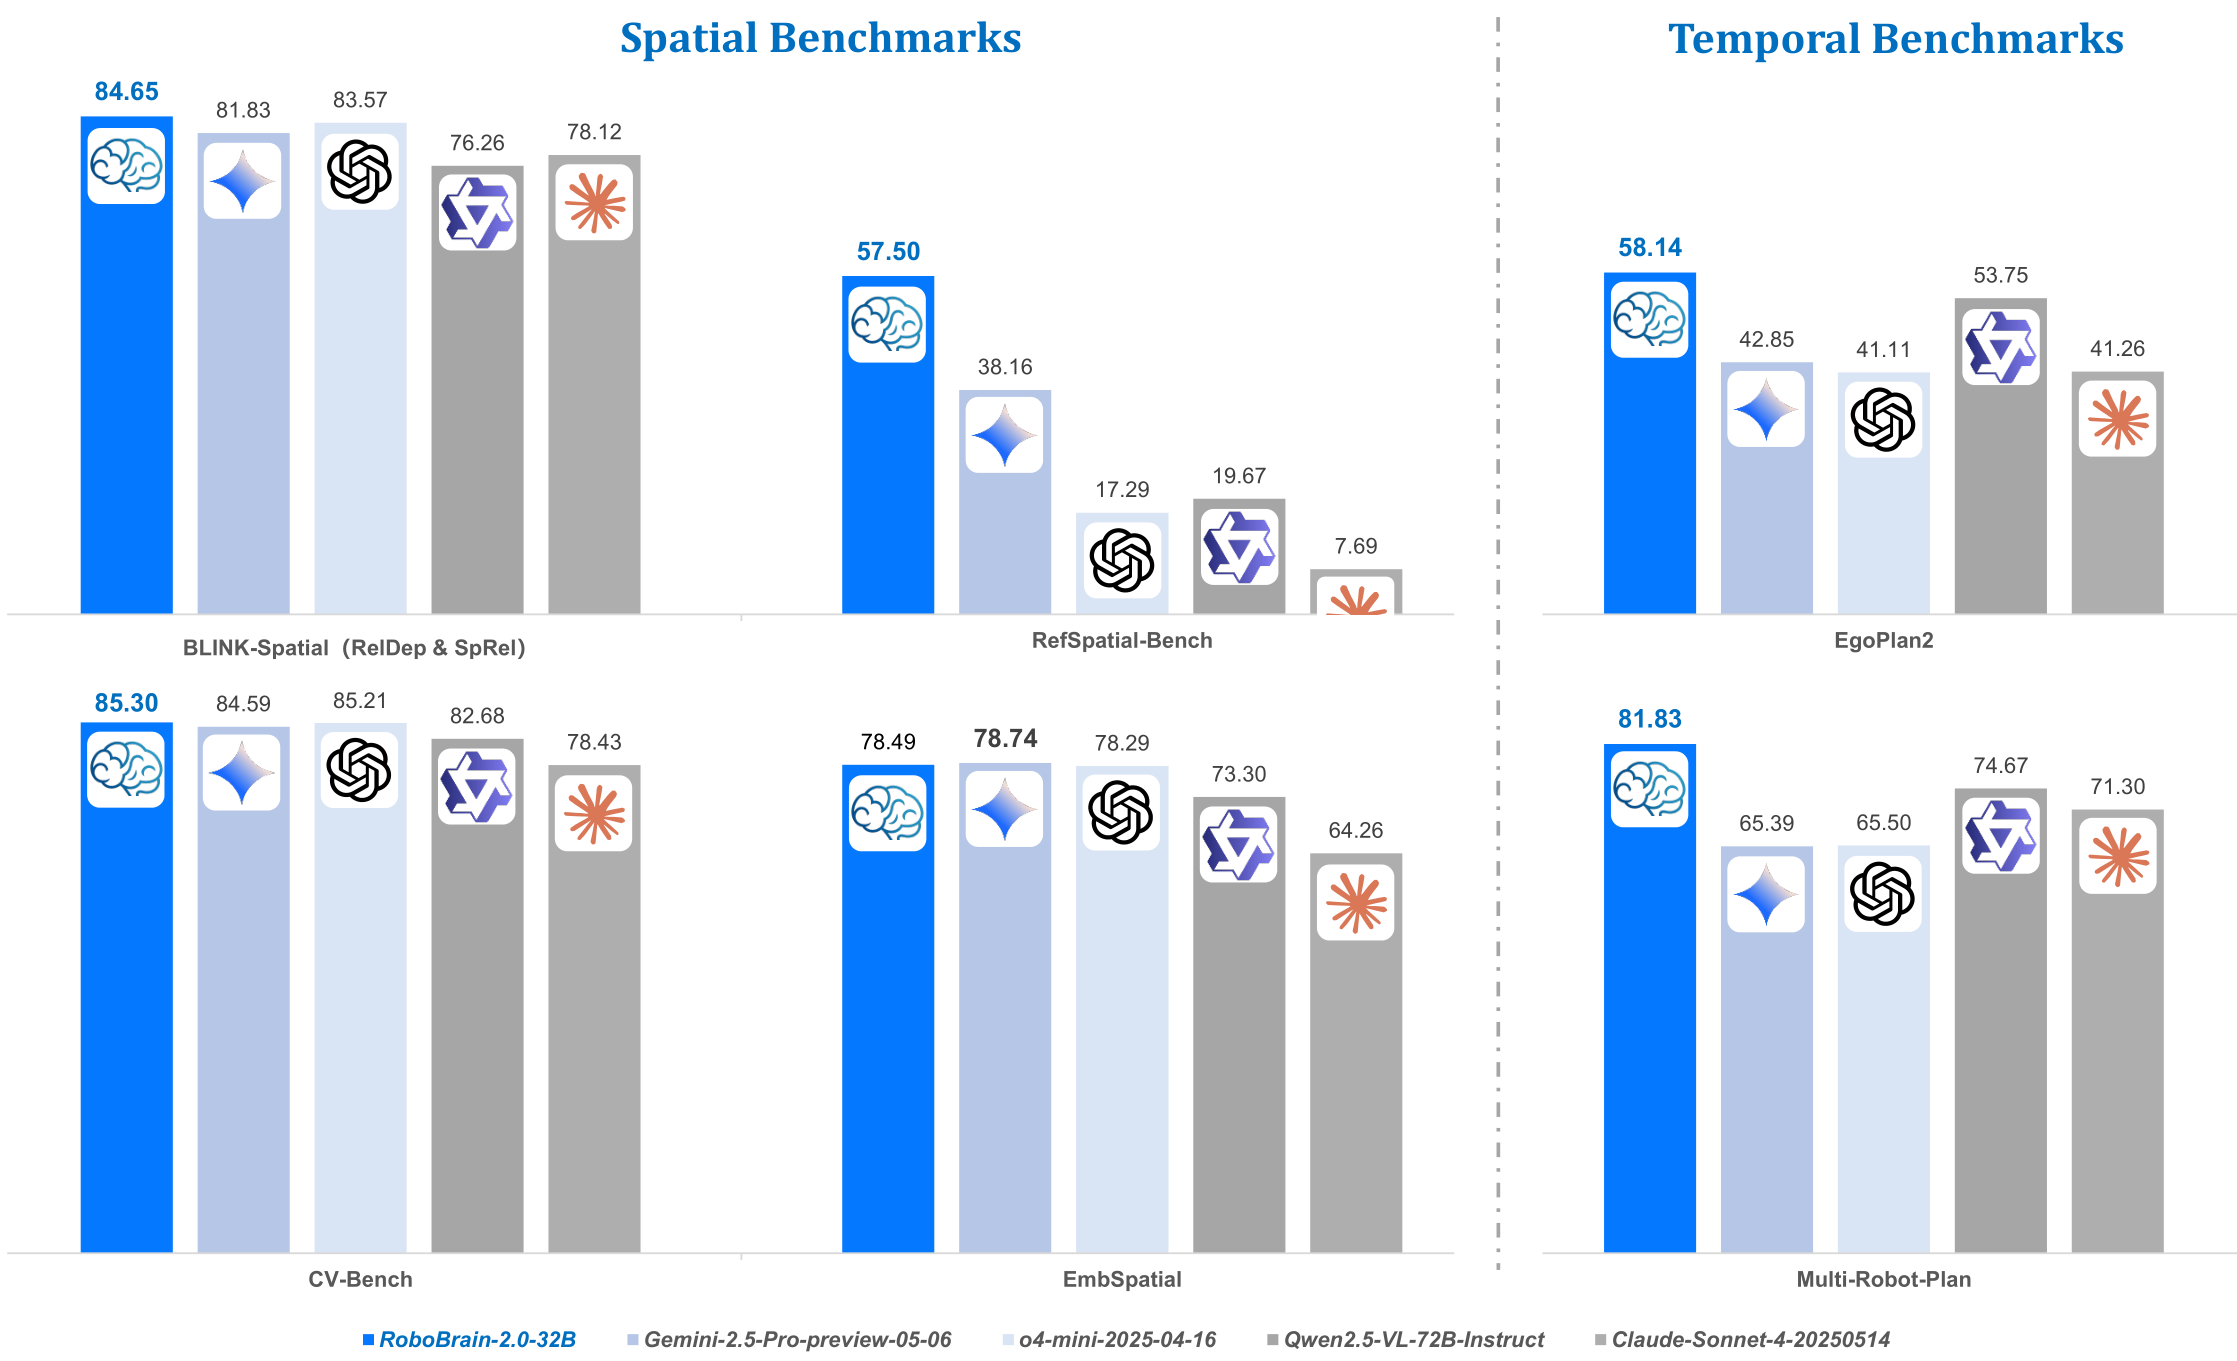
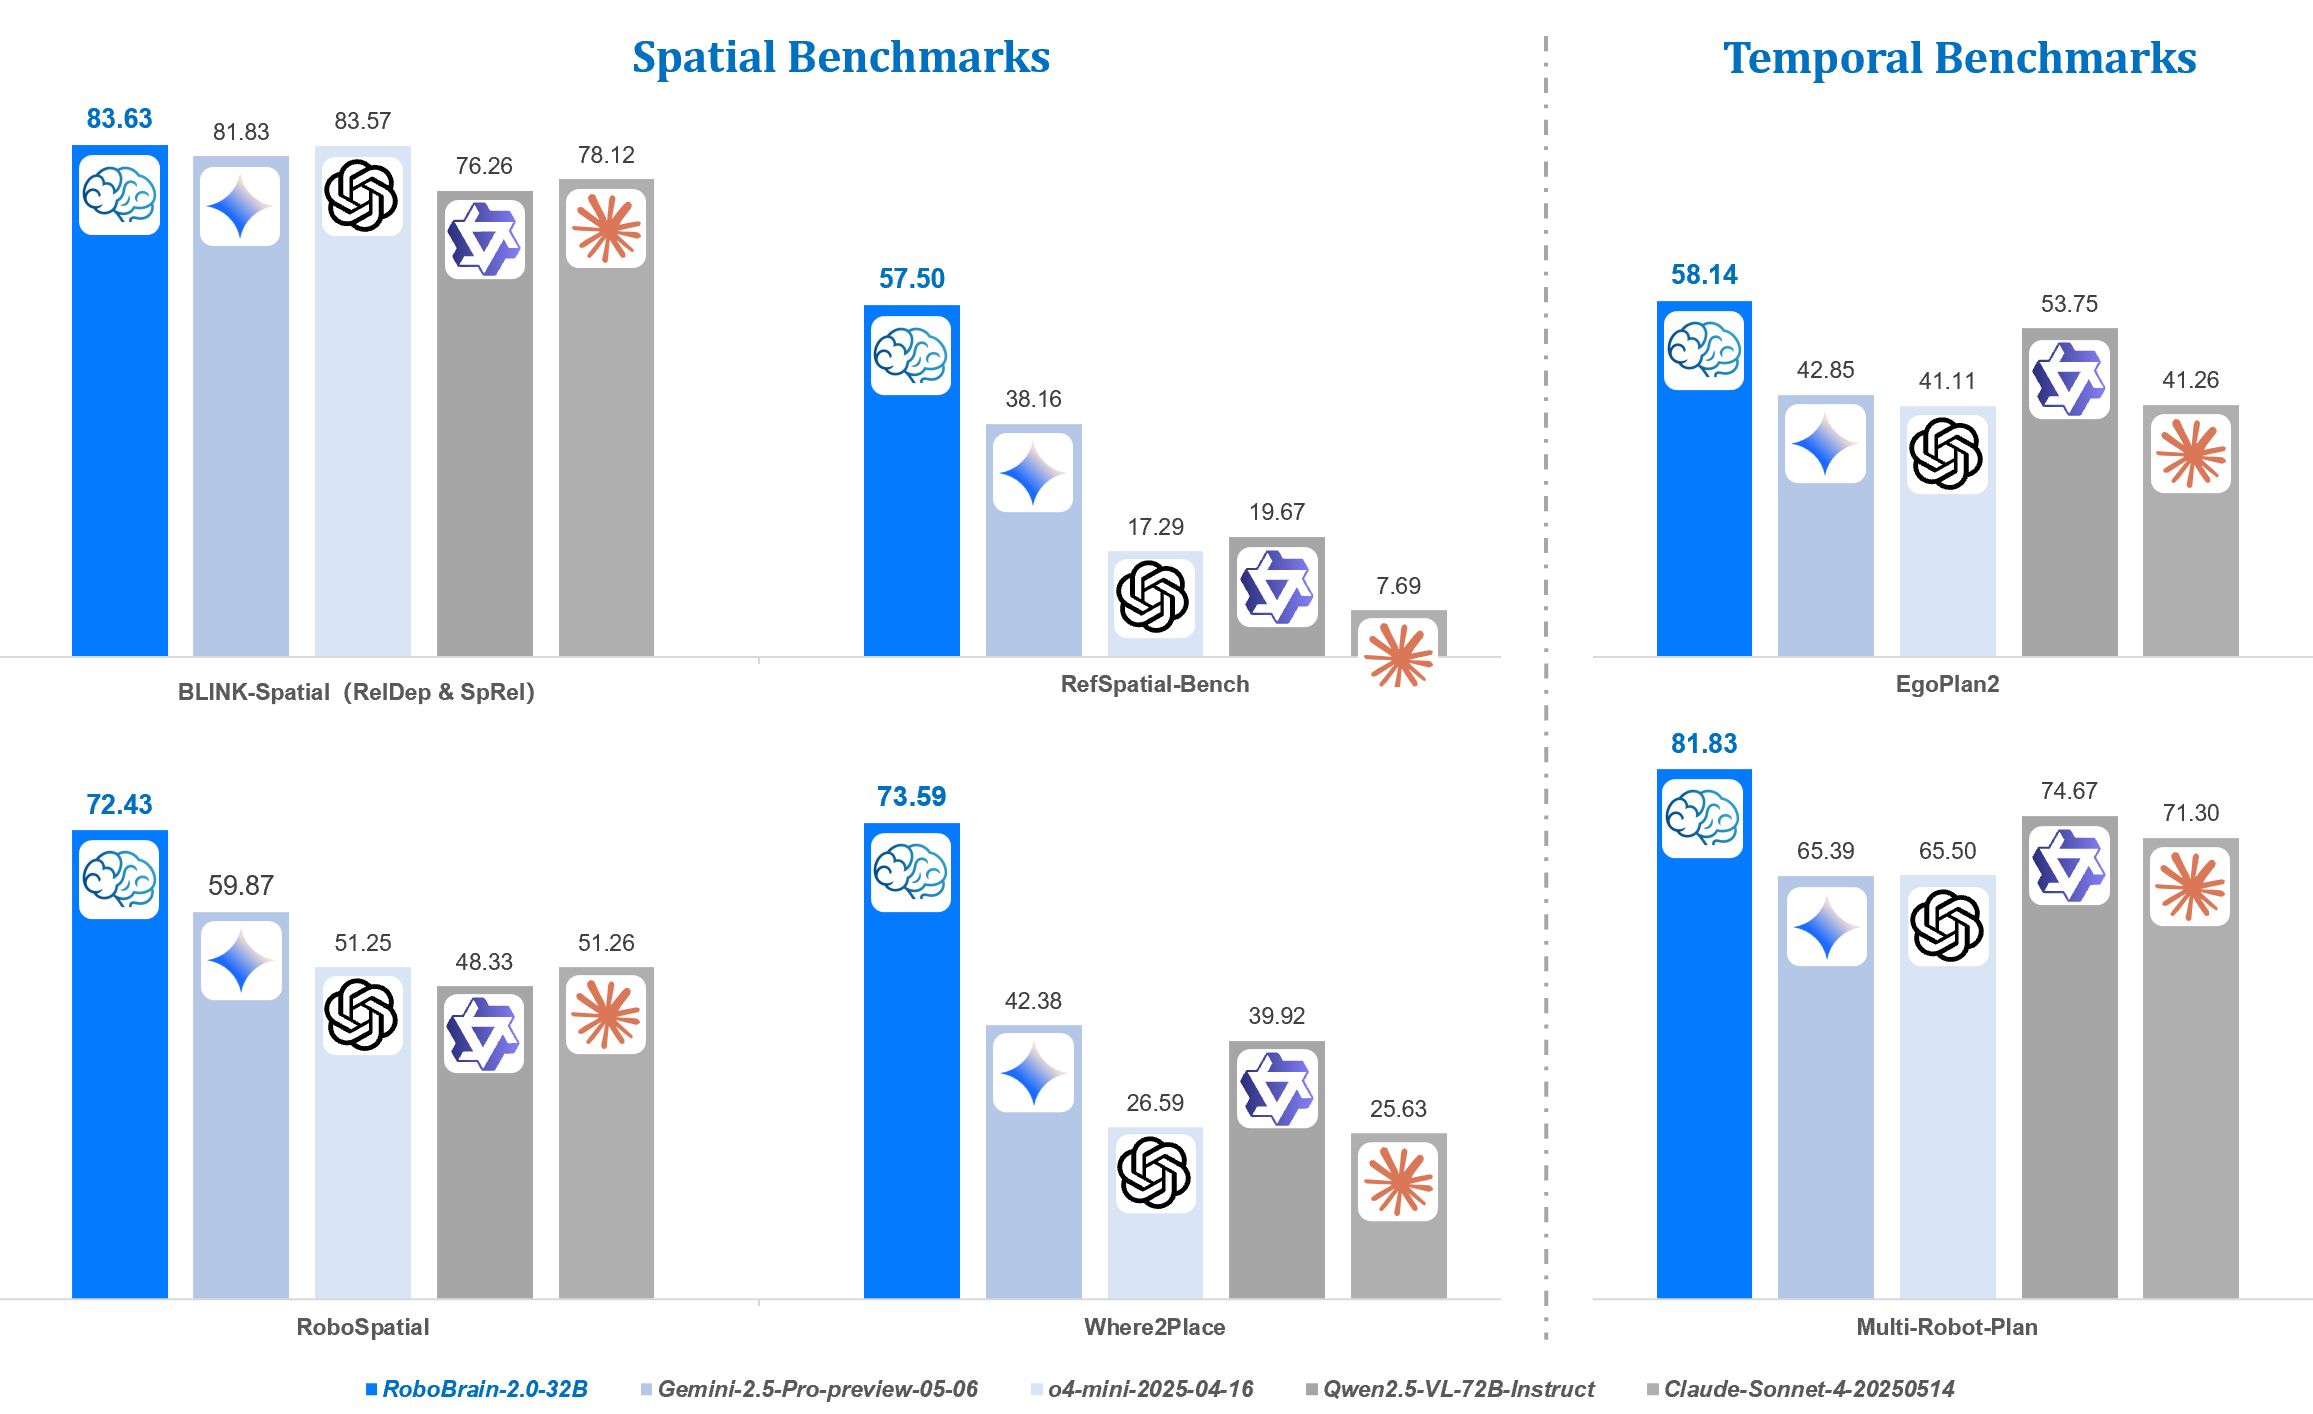
update

diff --git a/index.html b/index.html
@@ -86,7 +86,9 @@
                 <div class="column is-four-fifths">
                     <div class="content has-text-justified">
                         <p class="is-size-5">
-                            We are excited to introduce <strong>RoboBrain2.0</strong>, the most powerful open-source embodied brain model to date. Compared to its predecessor, RoboBrain1.0, our latest version significantly advances multi-agent task planning, spatial reasoning, and closed-loop execution. A detailed technical report will be released soon.
+                            We are excited to introduce <strong>RoboBrain2.0</strong>, the most powerful open-source embodied brain model to date. Compared to its predecessor, RoboBrain 1.0, our latest version are designed to unify perception, reasoning, and planning for complex embodied tasks in physical environments. It comes in two variants: a lightweight 7B model and a full-scale 32B model, featuring a heterogeneous architecture with a vision encoder and a language model. Despite its compact size, RoboBrain 2.0 achieves strong performance 
+                            across a wide spectrum of embodied reasoning tasks. On both spatial and temporal benchmarks, the 32B variant achieves leading results in most cases, surpassing prior open-source and proprietary models.
+                            In particular, it supports key real-world embodied intelligence capabilities, including spatial understanding (e.g., affordance prediction, spatial referring, trajectory forecasting) and temporal decision-making (e.g., closed-loop interaction, multi-agent long-horizon planning, and real-time scene memory). This report details the model architecture, data construction, multi-stage training strategies, infrastructure and practical applications. We hope RoboBrain 2.0 advances embodied AI research and serves as a practical step toward building generalist embodied agents.
                         </p>
                     </div>
                 </div>
@@ -113,12 +115,29 @@
       
               <!-- 第二张图 -->
               <figure>
-                <img src="images/results_table.png" alt="Task capabilities" style="width: 100%;">
+                <img src="images/result_table_1.png" alt="Task capabilities" style="width: 100%;">
                 <figcaption class="has-text-justified is-size-6 mt-3">
-                    <strong>Benchmark comparison across spatial reasoning and task planning.</strong>
-                    RoboBrain2.0-32B achieves state-of-the-art performance on four key embodied intelligence benchmarks:
-                    <strong>BLINK-Spatial</strong>, <strong>CV-Bench</strong>, <strong>EmbSpatial</strong>, and <strong>RefSpatial</strong>.
-                    It not only outperforms leading open-source models, but also surpasses closed-source models.
+                    <strong>Benchmark comparison across spatial reasoning and temporal task planning.</strong>
+                    RoboBrain2.0-32B achieves state-of-the-art (SOTA) or near-SOTA performance on <strong>nine spatial reasoning benchmarks</strong> and <strong>three temporal reasoning benchmarks</strong>.
+                    It not only outperforms leading open-source models such as Cosmos-Reason1 and Qwen2.5-VL, but also surpasses closed-source models like Gemini 2.5 Pro, o4-mini and Claude Sonnet 4.
+                  </figcaption>
+                </figure>
+
+                <figure>
+                <img src="images/result_table_2.png" alt="Task capabilities" style="width: 100%;">
+                <figcaption class="has-text-justified is-size-6 mt-3">
+                    <strong>Benchmark comparison across spatial reasoning and temporal task planning.</strong>
+                    RoboBrain2.0-32B achieves state-of-the-art (SOTA) or near-SOTA performance on <strong>nine spatial reasoning benchmarks</strong> and <strong>three temporal reasoning benchmarks</strong>.
+                    It not only outperforms leading open-source models such as Cosmos-Reason1 and Qwen2.5-VL, but also surpasses closed-source models like Gemini 2.5 Pro, o4-mini and Claude Sonnet 4.
+                  </figcaption>
+                </figure>
+
+                <figure>
+                <img src="images/result_table_3.png" alt="Task capabilities" style="width: 100%;">
+                <figcaption class="has-text-justified is-size-6 mt-3">
+                    <strong>Benchmark comparison across spatial reasoning and temporal task planning.</strong>
+                    RoboBrain2.0-32B achieves state-of-the-art (SOTA) or near-SOTA performance on <strong>nine spatial reasoning benchmarks</strong> and <strong>three temporal reasoning benchmarks</strong>.
+                    It not only outperforms leading open-source models such as Cosmos-Reason1 and Qwen2.5-VL, but also surpasses closed-source models like Gemini 2.5 Pro, o4-mini and Claude Sonnet 4.
                   </figcaption>
                 </figure>
 
